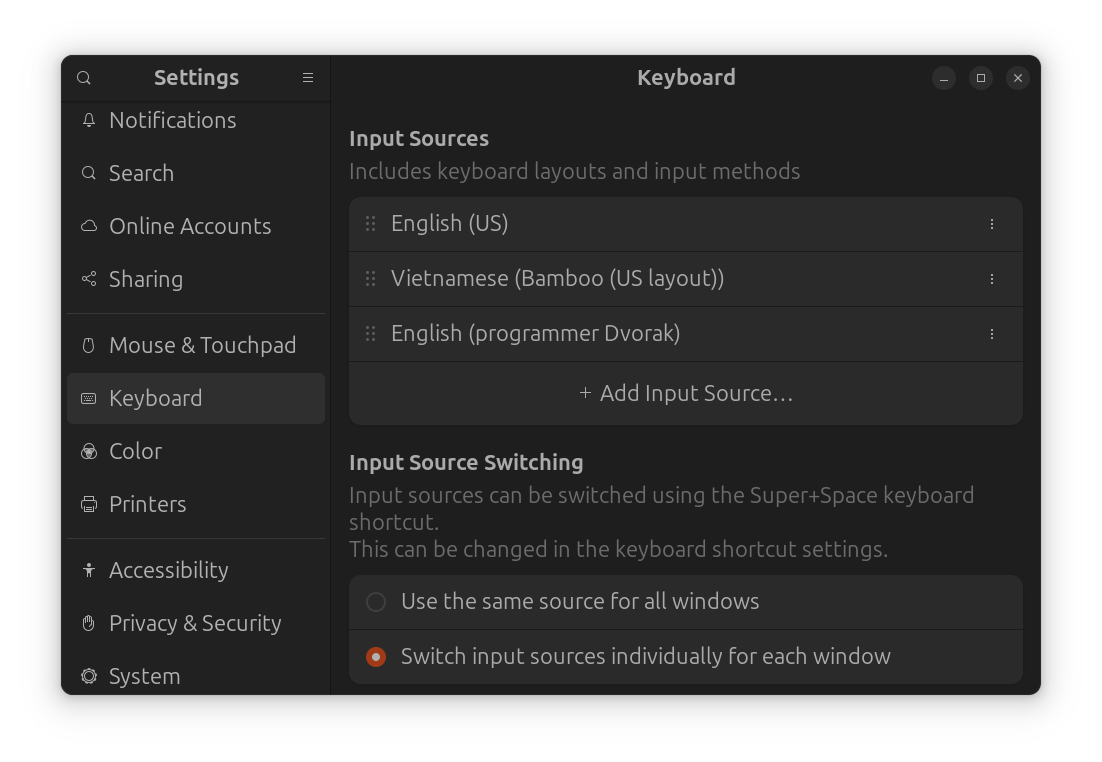
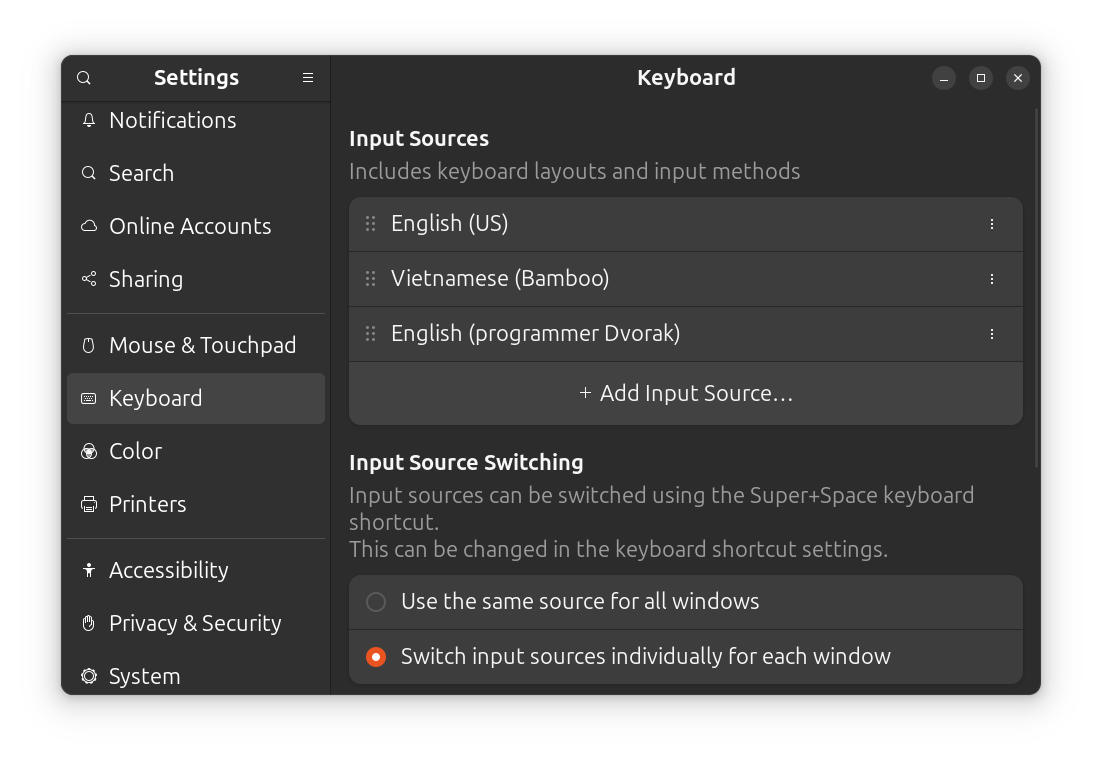
VietNamese problem and picture update

diff --git a/README.md b/README.md
@@ -5,11 +5,11 @@ Here are my learning progress of mastering Programmer's Dvorak layout
 
 ## Setting Up
 Linux already have Dvorak in base keyboard setting
-# 1) Select Add Input Source...
+### 1) Select Add Input Source...
 ![Add Input Source...](assets/1.png)
-# 2) Choose My Main Language
+### 2) Choose My Main Language
 ![English(United States](assets/2.png)
-# 3) Find The Right Oned
+### 3) Find The Right Oned
 ![English(programmer Dvorak)](assets/3.png)
 
 ## Customize 
@@ -30,5 +30,17 @@ nano /home/user/.config/code-flags.conf
 --ozone-platform-hint=auto
 --enable-features=WaylandWindowDecorations
 ``` 
-
+```
+now I can use Dvorak in VS Code
+### VietNamese problem
+When I use VS Code doing home work I 'alt+tab' to Chrome and 'Super+space' to use VietNamese (you can see in step 1 setting) the layout still there, but in VietNamese.
+**The solution** :
+```bash
+sudo nano /usr/share/ibus/component/bamboo.xml
+```
+Then find '<layout>' and set it to
+```bash
+<layout>us</layout>
+```
+Save and 'ibus -restart'
 